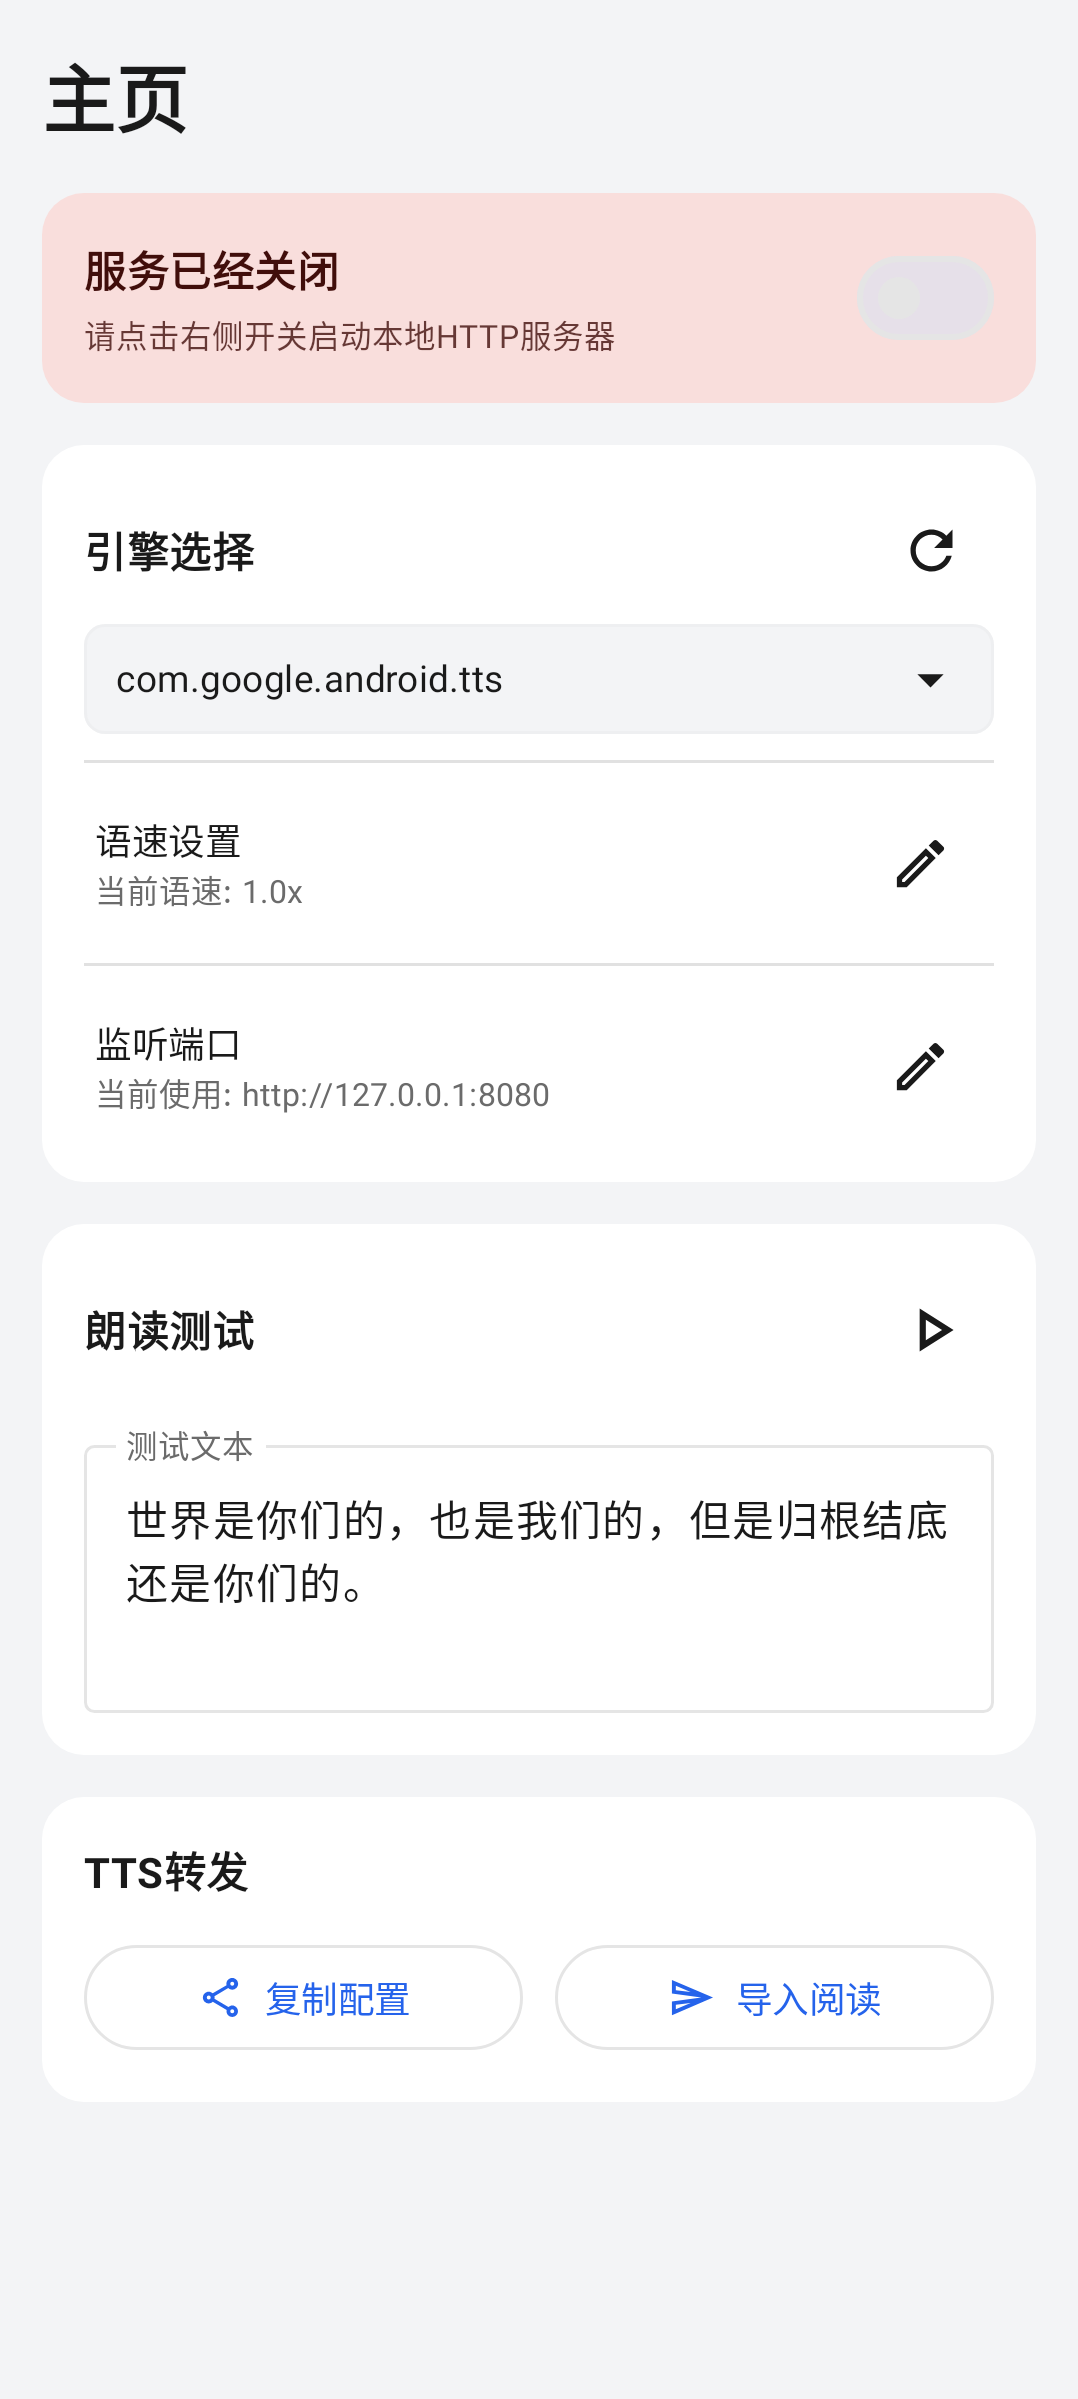
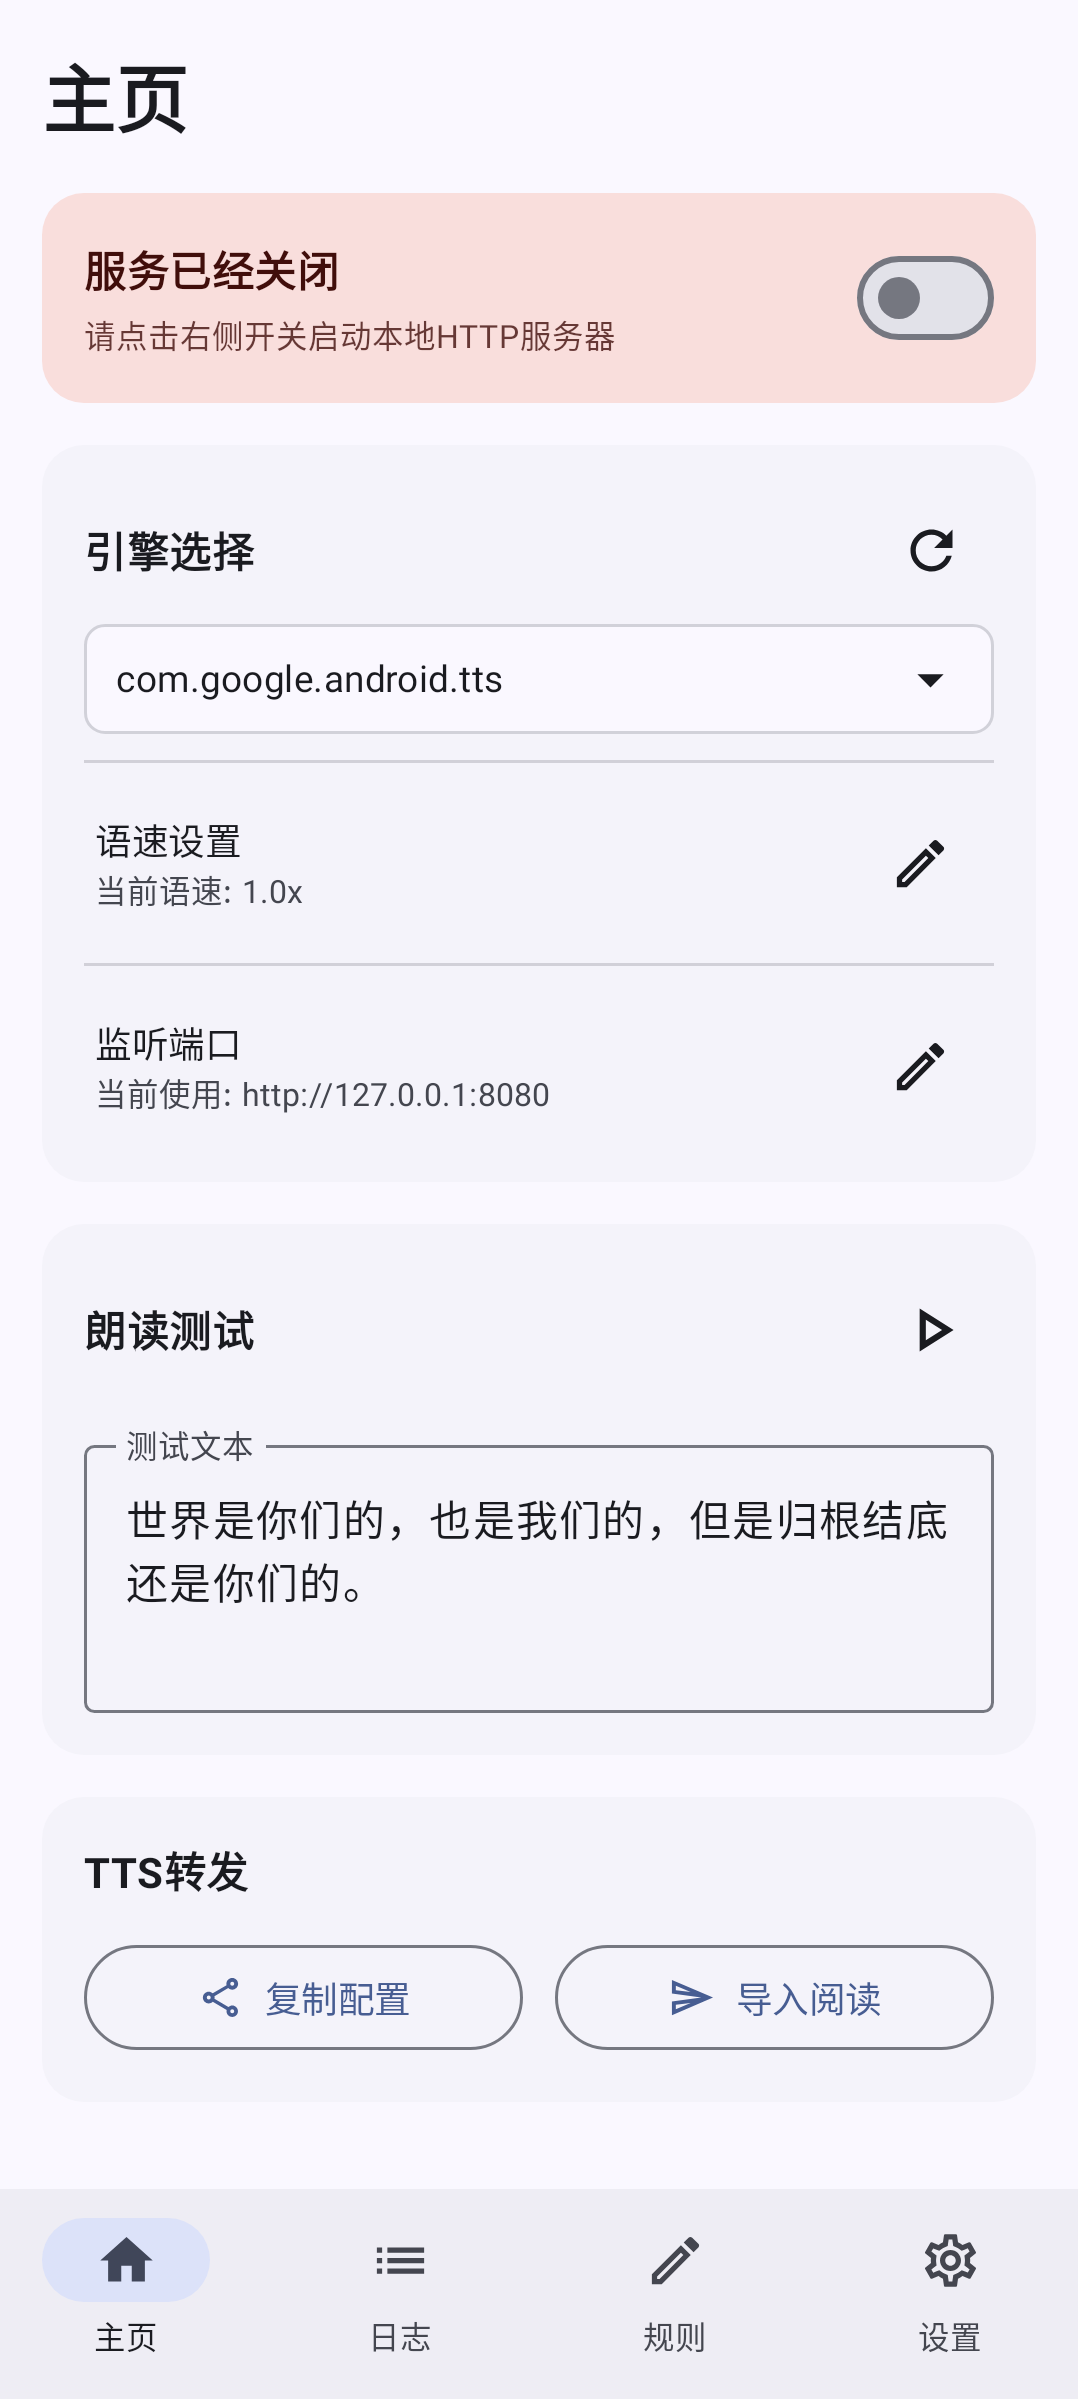
refactor: extract MainApp and update UI navigation

diff --git a/app/src/main/java/com/example/MainActivity.kt b/app/src/main/java/com/example/MainActivity.kt
@@ -13,12 +13,12 @@ import androidx.compose.foundation.isSystemInDarkTheme
 import androidx.compose.foundation.layout.fillMaxSize
 import androidx.compose.foundation.layout.padding
 import androidx.compose.material.icons.Icons
+import androidx.compose.material.icons.automirrored.filled.List
+import androidx.compose.material.icons.automirrored.outlined.List
 import androidx.compose.material.icons.filled.Home
-import androidx.compose.material.icons.filled.List
 import androidx.compose.material.icons.filled.Settings
 import androidx.compose.material.icons.filled.Edit
 import androidx.compose.material.icons.outlined.Home
-import androidx.compose.material.icons.outlined.List
 import androidx.compose.material.icons.outlined.Settings
 import androidx.compose.material.icons.outlined.Edit
 import androidx.compose.material3.Icon
@@ -26,6 +26,7 @@ import androidx.compose.material3.NavigationBar
 import androidx.compose.material3.NavigationBarItem
 import androidx.compose.material3.Scaffold
 import androidx.compose.material3.Text
+import androidx.compose.runtime.Composable
 import androidx.compose.runtime.collectAsState
 import androidx.compose.runtime.getValue
 import androidx.compose.runtime.mutableStateOf
@@ -86,103 +87,111 @@ class MainActivity : ComponentActivity() {
         }
 
         setContent {
-            val settings by viewModel.settingsState.collectAsState()
-            val darkTheme = when (settings.themeMode) {
-                1 -> false
-                2 -> true
-                else -> isSystemInDarkTheme()
+            MainApp(viewModel = viewModel)
+        }
+    }
+}
+
+@Composable
+fun MainApp(
+    viewModel: TtsViewModel,
+    initialTab: Int = 0
+) {
+    val settings by viewModel.settingsState.collectAsState()
+    val darkTheme = when (settings.themeMode) {
+        1 -> false
+        2 -> true
+        else -> isSystemInDarkTheme()
+    }
+
+    MyApplicationTheme(
+        darkTheme = darkTheme,
+        dynamicColor = settings.useDynamicColor
+    ) {
+        // Keep track of navigation history as a back-stack list of tab indices.
+        var navigationStack by remember { mutableStateOf(listOf(initialTab)) }
+        val selectedTab = navigationStack.last()
+
+        // Intercept back gesture (swipe-back) if we are not on the first screen.
+        BackHandler(enabled = navigationStack.size > 1) {
+            navigationStack = navigationStack.dropLast(1)
+        }
+
+        fun navigateToTab(tab: Int) {
+            if (selectedTab != tab) {
+                // Remove previous occurrence if any, and append the new tab to the top of backstack
+                navigationStack = navigationStack.filter { it != tab } + tab
             }
+        }
 
-            MyApplicationTheme(
-                darkTheme = darkTheme,
-                dynamicColor = settings.useDynamicColor
-            ) {
-                // Keep track of navigation history as a back-stack list of tab indices.
-                var navigationStack by remember { mutableStateOf(listOf(0)) }
-                val selectedTab = navigationStack.last()
-
-                // Intercept back gesture (swipe-back) if we are not on the first screen.
-                BackHandler(enabled = navigationStack.size > 1) {
-                    navigationStack = navigationStack.dropLast(1)
+        Scaffold(
+            modifier = Modifier.fillMaxSize(),
+            bottomBar = {
+                NavigationBar {
+                    NavigationBarItem(
+                        selected = selectedTab == 0,
+                        onClick = { navigateToTab(0) },
+                        icon = {
+                            Icon(
+                                imageVector = if (selectedTab == 0) Icons.Filled.Home else Icons.Outlined.Home,
+                                contentDescription = "主页"
+                            )
+                        },
+                        label = { Text("主页") }
+                    )
+                    NavigationBarItem(
+                        selected = selectedTab == 1,
+                        onClick = { navigateToTab(1) },
+                        icon = {
+                            Icon(
+                                imageVector = if (selectedTab == 1) Icons.AutoMirrored.Filled.List else Icons.AutoMirrored.Outlined.List,
+                                contentDescription = "日志"
+                            )
+                        },
+                        label = { Text("日志") }
+                    )
+                    NavigationBarItem(
+                        selected = selectedTab == 2,
+                        onClick = { navigateToTab(2) },
+                        icon = {
+                            Icon(
+                                imageVector = if (selectedTab == 2) Icons.Filled.Edit else Icons.Outlined.Edit,
+                                contentDescription = "规则"
+                            )
+                        },
+                        label = { Text("规则") }
+                    )
+                    NavigationBarItem(
+                        selected = selectedTab == 3,
+                        onClick = { navigateToTab(3) },
+                        icon = {
+                            Icon(
+                                imageVector = if (selectedTab == 3) Icons.Filled.Settings else Icons.Outlined.Settings,
+                                contentDescription = "设置"
+                            )
+                        },
+                        label = { Text("设置") }
+                    )
                 }
-
-                fun navigateToTab(tab: Int) {
-                    if (selectedTab != tab) {
-                        // Remove previous occurrence if any, and append the new tab to the top of backstack
-                        navigationStack = navigationStack.filter { it != tab } + tab
-                    }
-                }
-
-                Scaffold(
-                    modifier = Modifier.fillMaxSize(),
-                    bottomBar = {
-                        NavigationBar {
-                            NavigationBarItem(
-                                selected = selectedTab == 0,
-                                onClick = { navigateToTab(0) },
-                                icon = {
-                                    Icon(
-                                        imageVector = if (selectedTab == 0) Icons.Filled.Home else Icons.Outlined.Home,
-                                        contentDescription = "主页"
-                                    )
-                                },
-                                label = { Text("主页") }
-                            )
-                            NavigationBarItem(
-                                selected = selectedTab == 1,
-                                onClick = { navigateToTab(1) },
-                                icon = {
-                                    Icon(
-                                        imageVector = if (selectedTab == 1) Icons.Filled.List else Icons.Outlined.List,
-                                        contentDescription = "日志"
-                                    )
-                                },
-                                label = { Text("日志") }
-                            )
-                            NavigationBarItem(
-                                selected = selectedTab == 2,
-                                onClick = { navigateToTab(2) },
-                                icon = {
-                                    Icon(
-                                        imageVector = if (selectedTab == 2) Icons.Filled.Edit else Icons.Outlined.Edit,
-                                        contentDescription = "规则"
-                                    )
-                                },
-                                label = { Text("规则") }
-                            )
-                            NavigationBarItem(
-                                selected = selectedTab == 3,
-                                onClick = { navigateToTab(3) },
-                                icon = {
-                                    Icon(
-                                        imageVector = if (selectedTab == 3) Icons.Filled.Settings else Icons.Outlined.Settings,
-                                        contentDescription = "设置"
-                                    )
-                                },
-                                label = { Text("设置") }
-                            )
-                        }
-                    }
-                ) { innerPadding ->
-                    when (selectedTab) {
-                        0 -> DashboardScreen(
-                            viewModel = viewModel,
-                            modifier = Modifier.padding(innerPadding)
-                        )
-                        1 -> LogsScreen(
-                            viewModel = viewModel,
-                            modifier = Modifier.padding(innerPadding)
-                        )
-                        2 -> RulesScreen(
-                            viewModel = viewModel,
-                            modifier = Modifier.padding(innerPadding)
-                        )
-                        3 -> SettingsScreen(
-                            viewModel = viewModel,
-                            modifier = Modifier.padding(innerPadding)
-                        )
-                    }
-                }
+            }
+        ) { innerPadding ->
+            when (selectedTab) {
+                0 -> DashboardScreen(
+                    viewModel = viewModel,
+                    modifier = Modifier.padding(innerPadding)
+                )
+                1 -> LogsScreen(
+                    viewModel = viewModel,
+                    modifier = Modifier.padding(innerPadding)
+                )
+                2 -> RulesScreen(
+                    viewModel = viewModel,
+                    modifier = Modifier.padding(innerPadding)
+                )
+                3 -> SettingsScreen(
+                    viewModel = viewModel,
+                    modifier = Modifier.padding(innerPadding)
+                )
             }
         }
     }

diff --git a/app/src/test/java/com/example/GreetingScreenshotTest.kt b/app/src/test/java/com/example/GreetingScreenshotTest.kt
@@ -4,11 +4,6 @@ import androidx.compose.ui.test.junit4.createComposeRule
 import androidx.compose.ui.test.onRoot
 import androidx.test.core.app.ApplicationProvider
 import com.example.data.AppDatabase
-import com.example.ui.DashboardScreen
-import com.example.ui.RulesScreen
-import com.example.ui.LogsScreen
-import com.example.ui.SettingsScreen
-import com.example.ui.theme.MyApplicationTheme
 import com.example.viewmodel.TtsViewModel
 import com.github.takahirom.roborazzi.RobolectricDeviceQualifiers
 import com.github.takahirom.roborazzi.captureRoboImage
@@ -27,33 +22,16 @@ class GreetingScreenshotTest {
   @get:Rule val composeTestRule = createComposeRule()
 
   @Test
-  fun greeting_screenshot() {
+  fun dashboard_screenshot() {
     val context = ApplicationProvider.getApplicationContext<android.content.Context>()
     val database = AppDatabase.getDatabase(context)
     val viewModel = TtsViewModel(context, database)
     
     composeTestRule.setContent {
-      MyApplicationTheme {
-        DashboardScreen(viewModel = viewModel)
-      }
+      MainApp(viewModel = viewModel, initialTab = 0)
     }
 
     composeTestRule.onRoot().captureRoboImage(filePath = "src/test/screenshots/dashboard.png")
-  }
-
-  @Test
-  fun rules_screenshot() {
-    val context = ApplicationProvider.getApplicationContext<android.content.Context>()
-    val database = AppDatabase.getDatabase(context)
-    val viewModel = TtsViewModel(context, database)
-    
-    composeTestRule.setContent {
-      MyApplicationTheme {
-        RulesScreen(viewModel = viewModel)
-      }
-    }
-
-    composeTestRule.onRoot().captureRoboImage(filePath = "src/test/screenshots/rules.png")
   }
 
   @Test
@@ -63,12 +41,23 @@ class GreetingScreenshotTest {
     val viewModel = TtsViewModel(context, database)
     
     composeTestRule.setContent {
-      MyApplicationTheme {
-        LogsScreen(viewModel = viewModel)
-      }
+      MainApp(viewModel = viewModel, initialTab = 1)
     }
 
     composeTestRule.onRoot().captureRoboImage(filePath = "src/test/screenshots/logs.png")
+  }
+
+  @Test
+  fun rules_screenshot() {
+    val context = ApplicationProvider.getApplicationContext<android.content.Context>()
+    val database = AppDatabase.getDatabase(context)
+    val viewModel = TtsViewModel(context, database)
+    
+    composeTestRule.setContent {
+      MainApp(viewModel = viewModel, initialTab = 2)
+    }
+
+    composeTestRule.onRoot().captureRoboImage(filePath = "src/test/screenshots/rules.png")
   }
 
   @Test
@@ -78,11 +67,10 @@ class GreetingScreenshotTest {
     val viewModel = TtsViewModel(context, database)
     
     composeTestRule.setContent {
-      MyApplicationTheme {
-        SettingsScreen(viewModel = viewModel)
-      }
+      MainApp(viewModel = viewModel, initialTab = 3)
     }
 
     composeTestRule.onRoot().captureRoboImage(filePath = "src/test/screenshots/settings.png")
   }
 }
+
